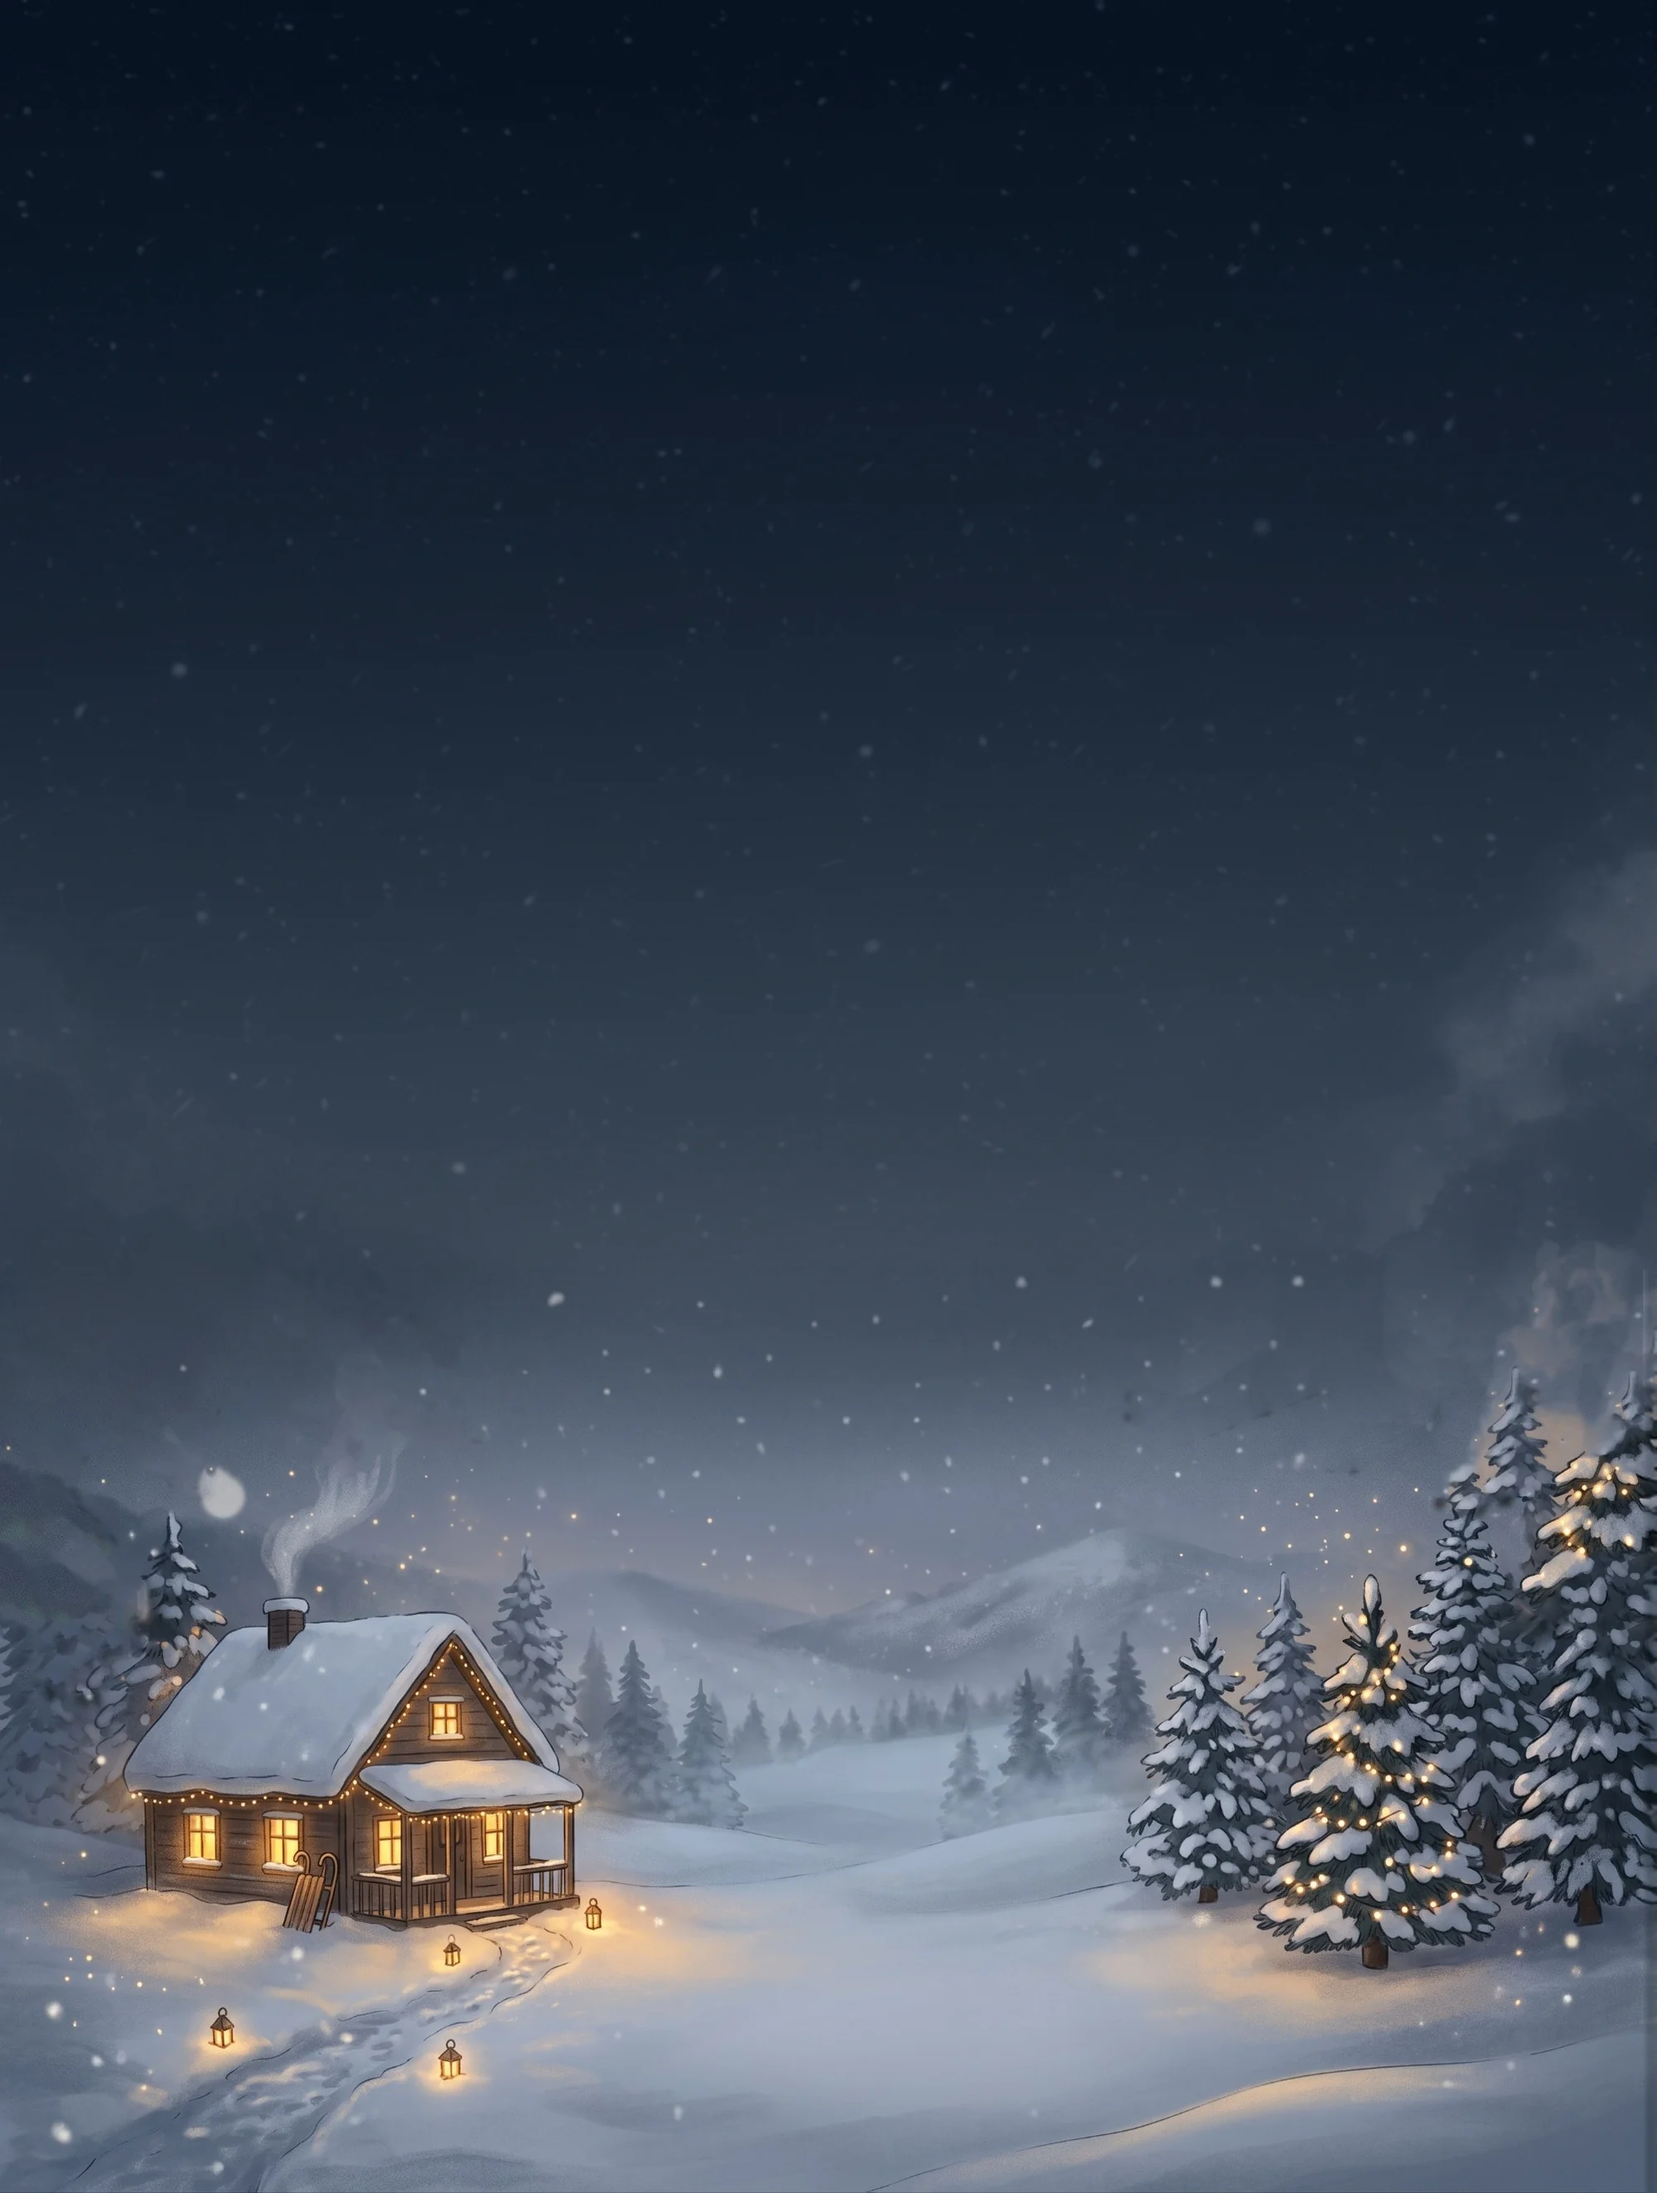
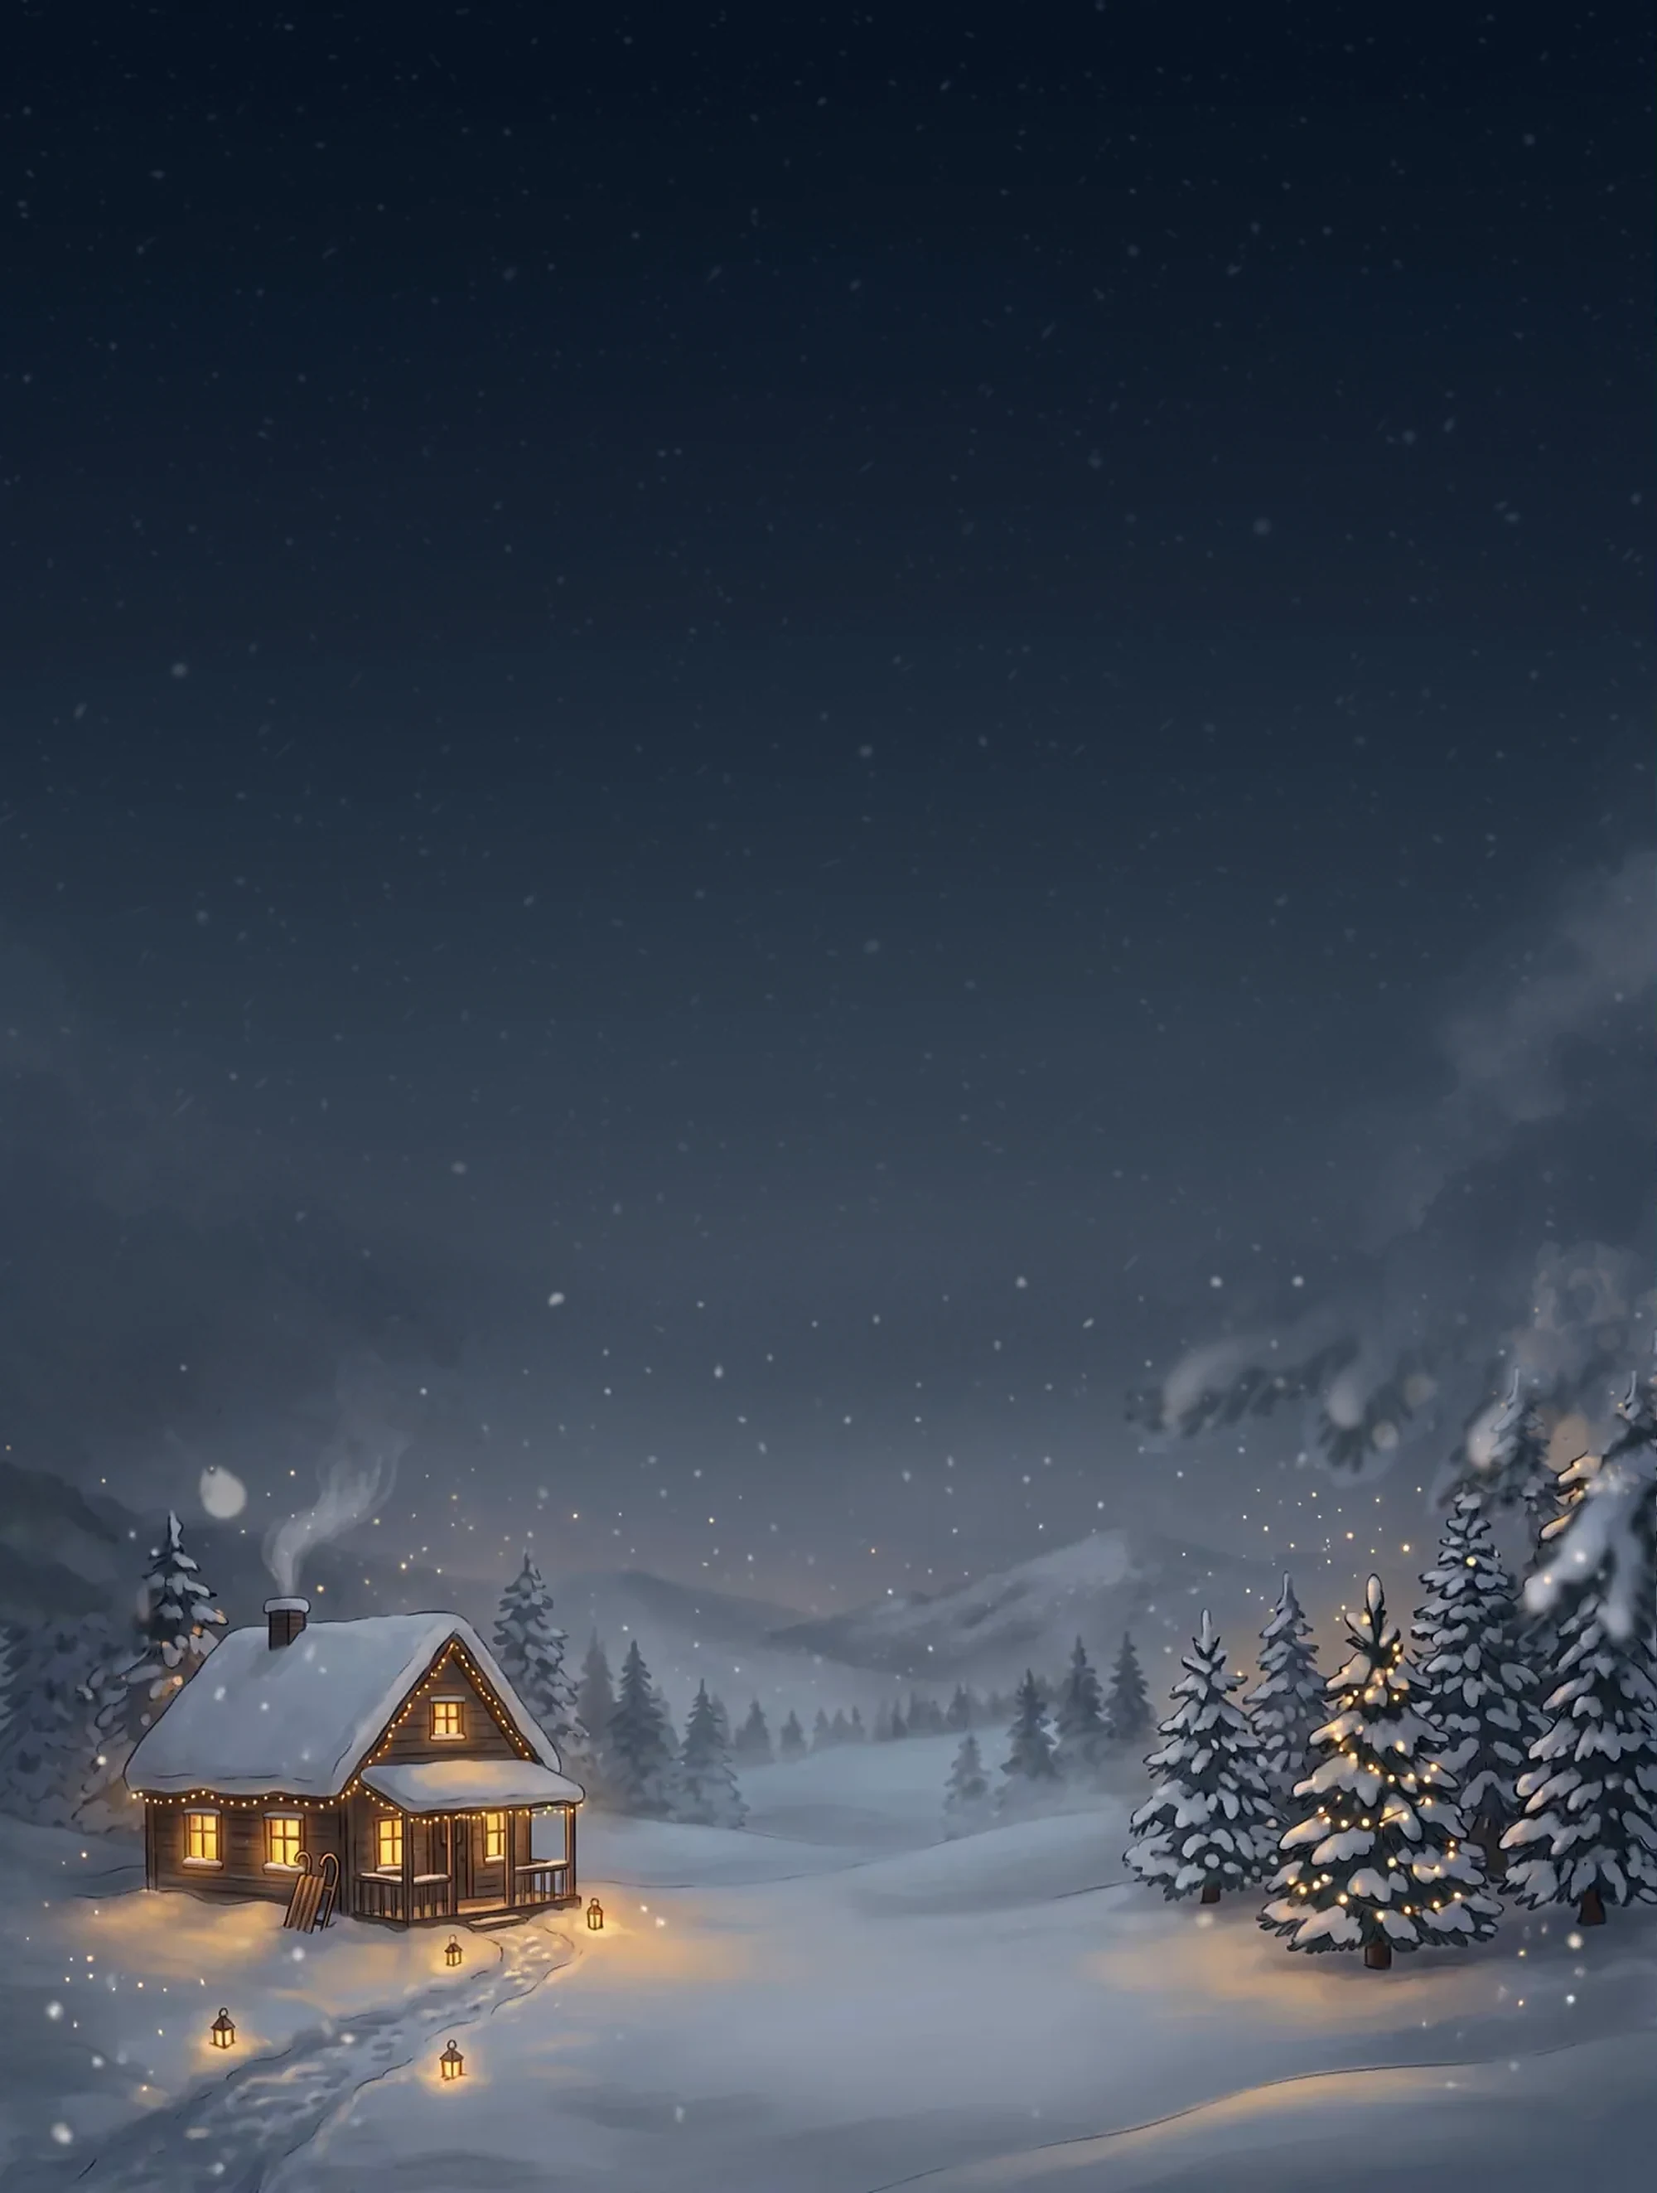
Десктоп: фон блока 3 совпадает с первым кадром видео, заголовок ниже
- низ фона блока 3 — это первый кадр видео; кадр рисуется ровно
  на весь экран, поэтому при начале перехода картинка не прыгает
- фон блока 3 растягивается под пропорции окна от той же точки, что
  и кадры видео (раньше он растягивался от верха блока и съезжал вниз)
- у холста с кадрами тот же лёгкий параллакс от мыши, что и у фона
- заголовок блока 3 опущен на 160 px, как в макете

Claude-Session: https://claude.ai/code/session_015XqF1CjjwNsnGRDEGdD4mP

Changed region(s): [[0.0, 0.6198, 1.0, 1.0], [0.961, 0.9917, 0.992, 1.0], [0.0, 0.7438, 0.031, 0.7748]]

diff --git a/desktop.js b/desktop.js
@@ -139,6 +139,8 @@
   let s = 1, tx = 0, ty = 0, cdpr = 1;
   // фоны растягиваются от центра кадра; считаем один раз, координаты кадра от размера окна не зависят
   bgls.forEach(el => { el.style.transformOrigin = `${960 - el.offsetLeft}px ${540 - el.offsetTop}px`; });
+  // фон блока 3 растягиваем от точки, которая в конце спуска стоит в центре экрана — там он совмещён с первым кадром видео
+  $('.b3-l01').style.transformOrigin = `${960 + 15}px ${540 + 166 + 1316}px`;
   const resize = () => {
     const vw = html.clientWidth, vh = innerHeight;
     s = Math.min(vw / 1920, vh / 1080);
@@ -758,8 +760,8 @@
     };
     for (let k = 0; k < 4; k++) pump();
   };
-  // геометрия кадра: в начале — как фон блока 3 внизу спуска, в конце — как фон блока 4
-  const V0 = { x: -116.7, y: 80.2, w: 2162.2, h: 1216.3 }, V1 = { x: -11.8, y: -4.8, w: 1940.4, h: 1091.5 };   // подобрано по совпадению кадров с фонами
+  // геометрия кадра: в начале — ровно экран (низ фона блока 3 и есть первый кадр), в конце — как фон блока 4
+  const V0 = { x: 0, y: 0, w: 1920, h: 1080 }, V1 = { x: -11.8, y: -4.8, w: 1940.4, h: 1091.5 };   // подобрано по совпадению кадров с фонами
   const drawFrame = t => {
     let i = Math.round(t * (FRAMES - 1));
     if (!frames[i]) {   // ближайший загруженный

diff --git a/desktop.css b/desktop.css
@@ -280,7 +280,7 @@ button { font: inherit; color: inherit; background: none; border: 0; cursor: poi
   width: calc(1920px + 2 * var(--px, 0px)); height: calc(1080px + 2 * var(--py, 0px));
   opacity: 0; pointer-events: none;
 }
-.b3-textwrap { position: absolute; left: 82px; top: 308px; width: 1756px; z-index: 3; }
+.b3-textwrap { position: absolute; left: 82px; top: 468px; width: 1756px; z-index: 3; }
 .b3-text { display: flex; flex-direction: column; gap: 24px; align-items: center; text-align: center; }
 .b3-card-wrap { position: absolute; left: 728px; top: 1566px; width: 463.8px; height: 648.33px; z-index: 3; perspective: 1600px; }
 

diff --git a/index.html b/index.html
@@ -300,7 +300,7 @@
       <div class="b3-l01 bgl"><img src="assets/d/b3-01.webp" alt="" data-d="6"></div>
     </div>
     <!-- переход в блок 4: кадры видео, сменяются при скролле -->
-    <canvas class="b3-video" id="b3-video" aria-hidden="true"></canvas>
+    <canvas class="b3-video" id="b3-video" aria-hidden="true" data-d="6"></canvas>
     <!-- ветки справа и слева стоят на месте -->
     <img class="b3-l02 bgl b3-fade" src="assets/d/b3-02.webp" alt="" data-d="14">
     <img class="b3-l03 bgl b3-fade" src="assets/d/b3-03.webp" alt="" data-d="26">
